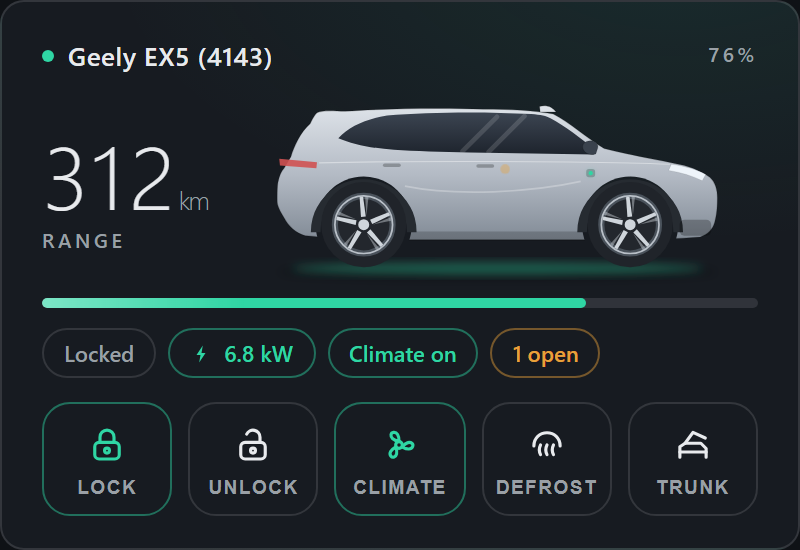
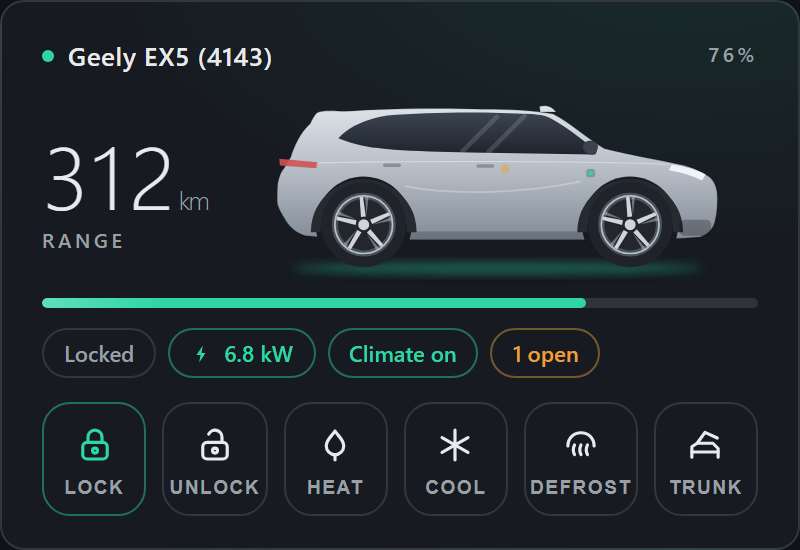
Rapid heat / cool on every small card; charging toggles on the big ones
The small cards have no room for a temperature stepper, so a bare
Climate on/off button earned its keep poorly. Compact, mini and strip
now carry the two taps that actually get used - the car's own Rapid
Warming and Rapid Cooling presets - in its place, with the active preset
highlighted and a second tap stopping it. The mini's hand-rolled 28/18
temperature trick from before the panel work is deleted in favour of the
same presets everywhere.

The full and top cards gain a Charging row under their charging section
(#15): a Charging toggle wired to switch.charging and a Schedule toggle
wired to switch.scheduled_charging, both hidden on cars without the
switches - the section could read the schedule but not arm it.

Refs #15
Claude-Session: https://claude.ai/code/session_01FKHdFjgidnPWAfMswcmmwA

diff --git a/custom_components/geely_connect/geely-card.js b/custom_components/geely_connect/geely-card.js
@@ -674,22 +674,6 @@
           this._call("climate", on ? "turn_off" : "turn_on", "climate");
           break;
         }
-        case "heat": case "cool": {
-          const c = this._st("climate.climate");
-          const on = c && c.state !== "off";
-          const target = c && c.attributes ? NUM({ state: c.attributes.temperature }) : null;
-          const heating = key === "heat";
-          // Tapping the active preset turns the climate off; anything else
-          // sets a decisive target and switches on.
-          if (on && target != null && (heating ? target >= 25 : target <= 20)) {
-            this._call("climate", "turn_off", "climate");
-          } else {
-            this._call("climate", "set_temperature", "climate",
-              { temperature: heating ? 28 : 18 });
-            this._call("climate", "set_hvac_mode", "climate", { hvac_mode: "heat_cool" });
-          }
-          break;
-        }
         case "tempdown": case "tempup": {
           const c = this._st("climate.climate");
           if (!c || !c.attributes) break;
@@ -703,12 +687,14 @@
           this._call("climate", "set_temperature", "climate", { temperature: next });
           break;
         }
-        case "rapidheat":
-          this._call("climate", "set_preset_mode", "climate", { preset_mode: "Rapid Warming" });
+        case "rapidheat": case "rapidcool": {
+          const want = key === "rapidheat" ? "Rapid Warming" : "Rapid Cooling";
+          const c = this._st("climate.climate");
+          const cur = c && c.attributes && c.attributes.preset_mode;
+          if (cur === want) this._call("climate", "turn_off", "climate");
+          else this._call("climate", "set_preset_mode", "climate", { preset_mode: want });
           break;
-        case "rapidcool":
-          this._call("climate", "set_preset_mode", "climate", { preset_mode: "Rapid Cooling" });
-          break;
+        }
         case "seat_heat_driver": case "seat_heat_passenger":
         case "seat_vent_driver": case "seat_vent_passenger": {
           // Tap cycles Off -> Low -> Medium -> High -> Off.
@@ -724,6 +710,8 @@
         case "shade_open": this._call("cover", "open_cover", "sunshade"); break;
         case "shade_close": this._call("cover", "close_cover", "sunshade"); break;
         case "gclean": this._call("switch", "toggle", "g_clean"); break;
+        case "charging_sw": this._call("switch", "toggle", "charging"); break;
+        case "sched_sw": this._call("switch", "toggle", "scheduled_charging"); break;
         case "defrost": this._call("switch", "toggle", "defrost"); break;
         case "vent": this._call("switch", "toggle", "window_ventilation"); break;
         case "find": this._call("button", "press", "find_car"); break;
@@ -734,6 +722,26 @@
     _wire() {
       this.shadowRoot.querySelectorAll("[data-act]").forEach((el) =>
         el.addEventListener("click", () => this._onAction(el.dataset.act)));
+    }
+
+    _preset() {
+      const c = this._st("climate.climate");
+      return (c && c.attributes && c.attributes.preset_mode) || "none";
+    }
+
+    /* Charging on/off and the schedule arm - the two switches the charging
+     * section reads about but could not touch (#15). Hidden entirely on a
+     * car with no charging switches. */
+    _chargingControls() {
+      const sw = this._st("switch.charging");
+      const sched = this._st("switch.scheduled_charging");
+      if (!sw && !sched) return "";
+      return `<div class="crow wrap" style="margin:2px 0 6px">
+        ${sw ? `<button class="cbtn ${sw.state === "on" ? "on" : ""}" data-act="charging_sw"
+          title="Start / stop charging">${icon("bolt")}<span>Charging</span></button>` : ""}
+        ${sched ? `<button class="cbtn ${sched.state === "on" ? "on" : ""}" data-act="sched_sw"
+          title="Scheduled charging on / off">${icon("charge")}<span>Schedule</span></button>` : ""}
+      </div>`;
     }
 
     /* The full climate panel: temperature stepper, the car's own rapid
@@ -928,7 +936,8 @@
           <div class="actions">
             ${this._actBtn("lock", "Lock", "lock", { on: s.locked && s.locked.state === "locked" })}
             ${this._actBtn("unlock", "Unlock", "unlock")}
-            ${this._actBtn("climate", "Climate", "climate", { on: climateOn })}
+            ${this._actBtn("rapidheat", "Heat", "heat", { on: this._preset() === "Rapid Warming" })}
+            ${this._actBtn("rapidcool", "Cool", "cool", { on: this._preset() === "Rapid Cooling" })}
             ${this._actBtn("defrost", "Defrost", "defrost", { on: defrost && defrost.state === "on" })}
             ${this._actBtn("trunk", "Trunk", "trunk")}
           </div>
@@ -1077,6 +1086,7 @@
 
           <hr class="hairline">
           <p class="micro">${icon("charge")} Charging</p>
+          ${this._chargingControls()}
           <div class="grid sec">
             ${this._row("Charger", s.conn)}
             ${this._row("Power", power, { accent: s.charging })}
@@ -1208,7 +1218,6 @@
       const low = s.battery != null && s.battery <= 20;
       const power = NUM(this._st("sensor.charging_power"));
       const locked = s.locked && s.locked.state === "locked";
-      const climateOn = s.climate && s.climate.state !== "off";
       const online = this._st("binary_sensor.connected");
       const statusLine = s.charging
         ? `Charging${power != null ? " · " + power.toFixed(1) + " kW" : ""}`
@@ -1251,7 +1260,8 @@
               ${locked
                 ? this._actBtn("unlock", "Unlock", "unlock")
                 : this._actBtn("lock", "Lock", "lock")}
-              ${this._actBtn("climate", "Climate", "climate", { on: climateOn })}
+              ${this._actBtn("rapidheat", "Heat", "heat", { on: this._preset() === "Rapid Warming" })}
+              ${this._actBtn("rapidcool", "Cool", "cool", { on: this._preset() === "Rapid Cooling" })}
               ${this._actBtn("trunk", "Trunk", "trunk")}
               ${this._actBtn("find", "Find", "find")}
             </div>
@@ -1286,11 +1296,7 @@
       const temp = NUM(this._st("sensor.interior_temperature"));
       const power = NUM(this._st("sensor.charging_power"));
       const locked = s.locked && s.locked.state === "locked";
-      const climateOn = s.climate && s.climate.state !== "off";
-      const target = s.climate && s.climate.attributes
-        ? NUM({ state: s.climate.attributes.temperature }) : null;
-      const heatOn = climateOn && target != null && target >= 25;
-      const coolOn = climateOn && target != null && target <= 20;
+      const preset = this._preset();
       const online = this._st("binary_sensor.connected");
       const statusLine = s.charging
         ? `Charging${power != null ? " · " + power.toFixed(1) + " kW" : ""}`
@@ -1334,8 +1340,8 @@
             ${locked
               ? this._actBtn("unlock", "Unlock", "unlock")
               : this._actBtn("lock", "Lock", "lock")}
-            ${this._actBtn("heat", "Heat", "heat", { on: heatOn })}
-            ${this._actBtn("cool", "Cool", "cool", { on: coolOn })}
+            ${this._actBtn("rapidheat", "Heat", "heat", { on: preset === "Rapid Warming" })}
+            ${this._actBtn("rapidcool", "Cool", "cool", { on: preset === "Rapid Cooling" })}
           </div>
         </div>`;
       this._wire();
@@ -1356,7 +1362,7 @@
         "sensor.distance_to_service", "sensor.last_updated", "sensor.speed",
         "sensor.fuel_level", "sensor.fuel_range", "sensor.combined_range",
         "sensor.pack_power", "lock.doors", "climate.climate", "switch.defrost",
-        "switch.window_ventilation", "switch.scheduled_charging",
+        "switch.charging", "switch.window_ventilation", "switch.scheduled_charging",
         "select.seat_heat_driver", "select.seat_heat_passenger",
         "select.seat_vent_driver", "select.seat_vent_passenger",
         "time.scheduled_charging_start", "time.scheduled_charging_end",
@@ -1488,6 +1494,7 @@
 
           <hr class="hairline">
           <p class="micro">${icon("charge")} Charging</p>
+          ${this._chargingControls()}
           <div class="grid sec">
             ${this._row("Charger", s.conn)}
             ${this._row("Power", power, { accent: s.charging })}
@@ -1681,7 +1688,7 @@
       {
         type: "geely-card-compact",
         name: "Geely Card (compact)",
-        description: "Battery, range and the controls that matter - lock, climate, defrost, trunk.",
+        description: "Battery, range and the controls that matter - lock, rapid heat / cool, defrost, trunk.",
         preview: true,
       },
       {
@@ -1699,7 +1706,7 @@
       {
         type: "geely-card-strip",
         name: "Geely Card (strip)",
-        description: "One row: range, battery, lock state - and lock, climate, trunk and find as icon buttons.",
+        description: "One row: range, battery, lock state - and lock, rapid heat / cool, trunk and find as icon buttons.",
         preview: true,
       },
       {

diff --git a/README.md b/README.md
@@ -166,11 +166,11 @@ dashboard, **Add card**, and search "Geely":
 
 | Card | What it is |
 |---|---|
-| **Geely Card** (`custom:geely-card`) | The full cockpit: range and battery up top, the EX5 silhouette that glows while charging and flags every opening, one-tap Lock / Unlock / Climate / Defrost / Vent / Trunk / Find / Sync, a full climate panel (temperature, rapid heat / cool, seat heating and cooling, fresh air, sunroof and shade), then charging, tires, trip and service health - each block hides itself when the car doesn't report it |
+| **Geely Card** (`custom:geely-card`) | The full cockpit: range and battery up top, the EX5 silhouette that glows while charging and flags every opening, one-tap Lock / Unlock / Climate / Defrost / Vent / Trunk / Find / Sync, a full climate panel (temperature, rapid heat / cool, seat heating and cooling, fresh air, sunroof and shade), charging and schedule toggles, then charging, tires, trip and service health - each block hides itself when the car doesn't report it |
 | **Geely Card (top view)** (`custom:geely-card-top`) | The car from above: tire pressure beside each wheel, bold live status on every door, the hood, the sunroof and the trunk - with the same header, actions and climate panel |
-| **Geely Card (compact)** (`custom:geely-card-compact`) | The essentials in one tile: battery, range, status chips, and the five controls that matter |
+| **Geely Card (compact)** (`custom:geely-card-compact`) | The essentials in one tile: battery, range, status chips - and Lock, Unlock, rapid Heat / Cool, Defrost and Trunk |
 | **Geely Card (mini)** (`custom:geely-card-mini`) | A small square: range, cabin temperature, status, a lock button that follows the car (locked offers Unlock, unlocked offers Lock), and one-tap quick heat / quick cool |
-| **Geely Card (strip)** (`custom:geely-card-strip`) | One row: range, battery and lock state, with lock, climate, trunk and find as icon buttons - for the top of a dashboard or a narrow column |
+| **Geely Card (strip)** (`custom:geely-card-strip`) | One row: range, battery and lock state, with lock, rapid heat / cool, trunk and find as icon buttons - for the top of a dashboard or a narrow column |
 
 | Full | Top view |
 |---|---|
